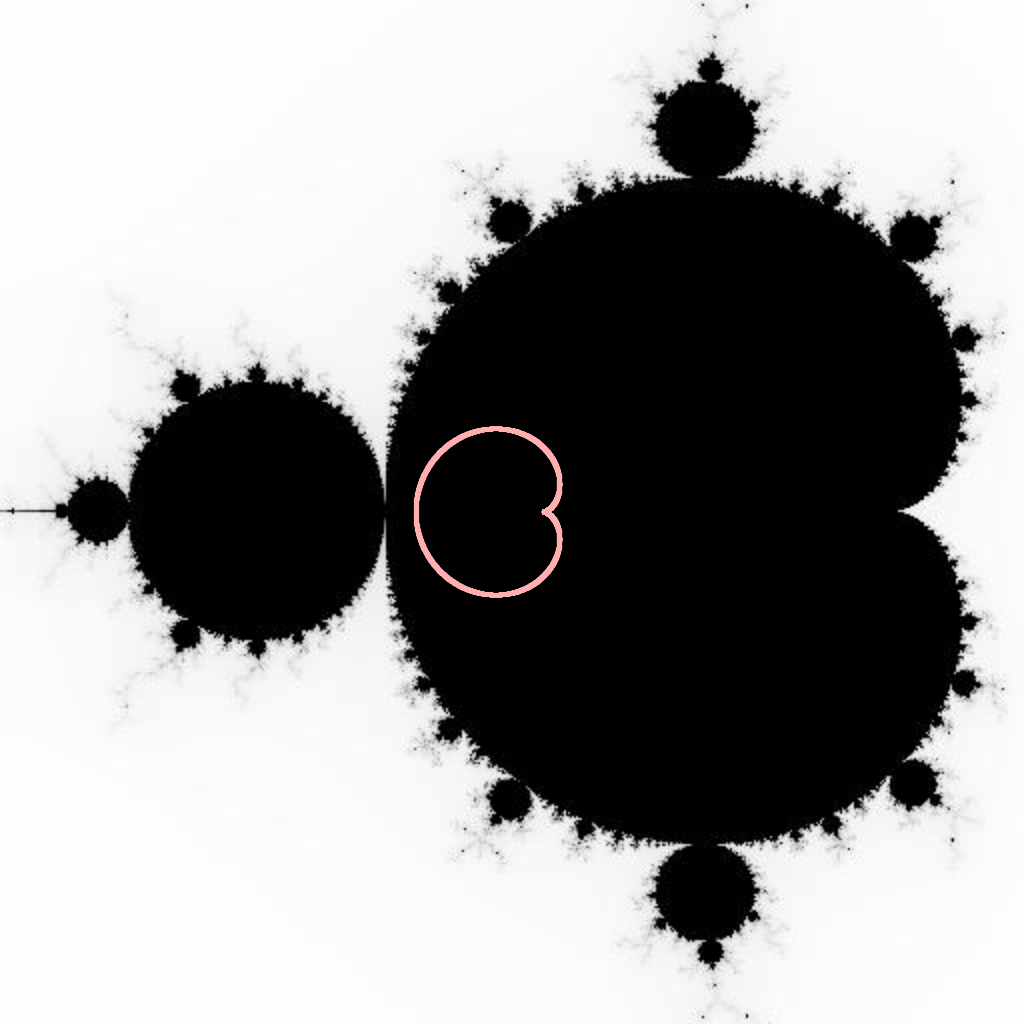
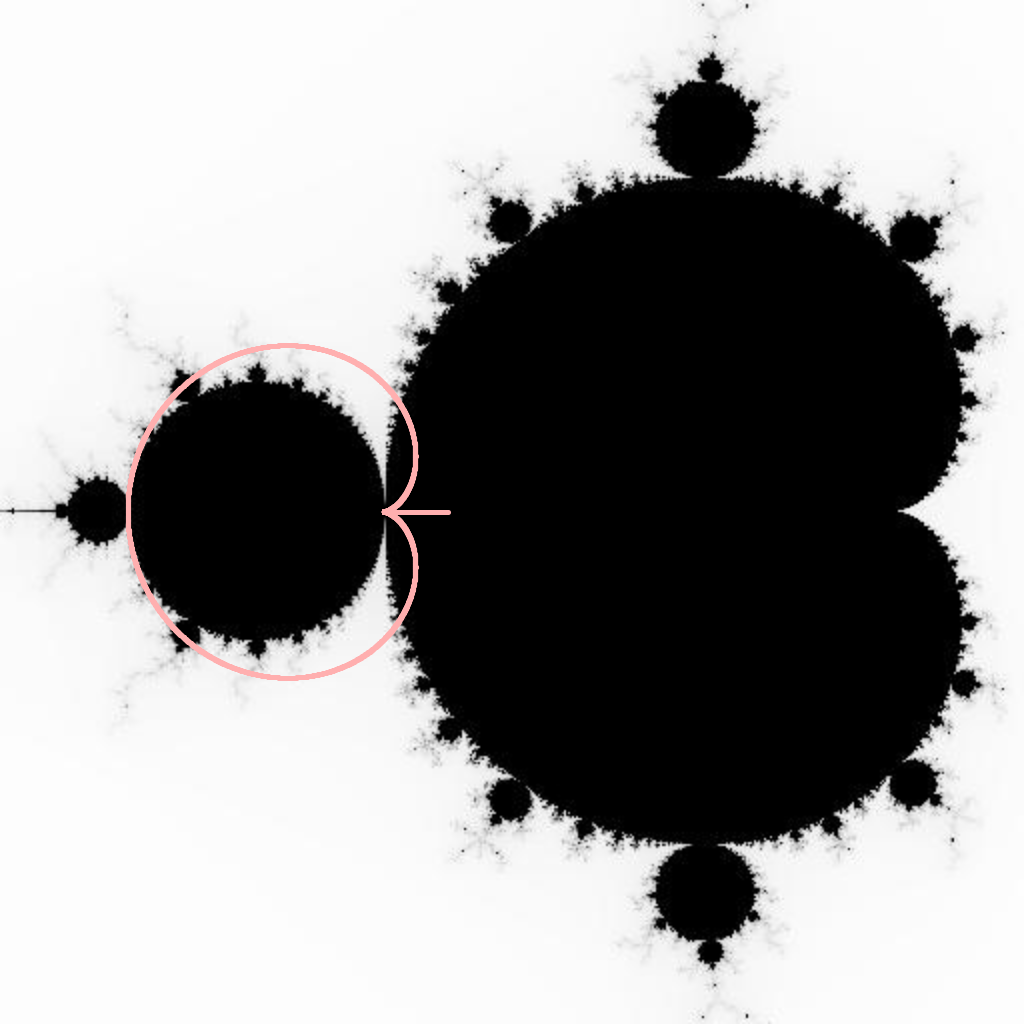
update hw

diff --git a/CS201-S4-SP-2026/HW14/E-5.2.99-UnaryAddTM/Tape.java b/CS201-S4-SP-2026/HW14/E-5.2.99-UnaryAddTM/Tape.java
@@ -44,52 +44,65 @@ public class Tape {
         current = right.pop();
     }
     public String toString() {
-        // Complete the code here, see README on course website for problem description and instructions.
-        Stack<Character> temp = new Stack<Character>();
-        
-        
+        // Build the result by collecting all tape contents
+        Stack<Character> allChars = new Stack<Character>();
+
+        // Left side in reverse order (pop from left, push to allChars)
+        Stack<Character> leftReversed = new Stack<Character>();
         while (!left.isEmpty()) {
-            temp.push(left.pop());
+            leftReversed.push(left.pop());
         }
-        temp.push(current);
+        while (!leftReversed.isEmpty()) {
+            allChars.push(leftReversed.pop());
+        }
+
+        // Current
+        allChars.push(current);
+
+        // Right side (pop from right, push to allChars)
+        Stack<Character> rightReversed = new Stack<Character>();
         while (!right.isEmpty()) {
-            temp.push(right.pop());
+            rightReversed.push(right.pop());
         }
-        
-        
-        java.util.List<Character> chars = new java.util.ArrayList<Character>();
-        while (!temp.isEmpty()) {
-            char c = temp.pop();
-            if (c != '#') {  // Skip '#' symbols
-                chars.add(c);
+        while (!rightReversed.isEmpty()) {
+            allChars.push(rightReversed.pop());
+        }
+
+        // Build input part (before =) and result part (after =)
+        // First pass: collect all non-# characters in order
+        java.util.List<Character> tapeList = new java.util.ArrayList<Character>();
+        while (!allChars.isEmpty()) {
+            char c = allChars.pop();
+            if (c != '#') {
+                tapeList.add(c);
             }
         }
-        
-        // Now build the result with spaces
-        StringBuilder result = new StringBuilder();
-        for (int i = 0; i < chars.size(); i++) {
-            result.append(chars.get(i));
-            if (i < chars.size() - 1) {
-                result.append(" ");
-            }
-        }
-        
-        
-        StringBuilder formattedResult = new StringBuilder();
+
+        // tapeList now has all non-# chars in reverse order (from pop)
+        // Reverse it to get correct order
+        java.util.Collections.reverse(tapeList);
+
+        // The input part is from original input (skip #)
+        // The result part is tapeList (which should be the current tape state)
+        StringBuilder inputPart = new StringBuilder();
         boolean first = true;
         for (int i = 0; i < originalInput.length(); i++) {
             char c = originalInput.charAt(i);
-            if (c != '#') {  // Skip '#' symbols
-                if (!first) {
-                    formattedResult.append(" ");
-                }
-                formattedResult.append(c);
+            if (c != '#') {
+                if (!first) inputPart.append(" ");
+                inputPart.append(c);
                 first = false;
             }
         }
-        formattedResult.append(" = ");
-        formattedResult.append(result.toString());
-        
-        return formattedResult.toString();
+
+        StringBuilder resultPart = new StringBuilder();
+        first = true;
+        for (char c : tapeList) {
+            if (!first) resultPart.append(" ");
+            resultPart.append(c);
+            first = false;
+        }
+
+        return inputPart.toString() + " = " + resultPart.toString();
     }
 }

diff --git a/CS201-S4-SP-2026/HW10/E-3.3.103-CardiodAndMandelbrot/HeartCurve.java b/CS201-S4-SP-2026/HW10/E-3.3.103-CardiodAndMandelbrot/HeartCurve.java
@@ -21,21 +21,22 @@ public class HeartCurve {
         StdDraw.setPenColor(StdDraw.PINK);
         StdDraw.setPenRadius(0.005);
         double a = 0.25;
+        double scale = 2.0;
 
         double N = 360;
 
-        double x0 = 0.25, y0 = 0;
+        double x0 = 0.25 * scale, y0 = 0;
 
         for (double t = 0.0; t <= N; t += 0.1) {
             double theta = Math.toRadians(t);
             double c = Math.cos(theta);
             double u = 2 * a * (1 - c);
 
-            double x1 = u * c;
-            double y1 = u * Math.sin(theta);
+            double x1 = u * c * scale;
+            double y1 = u * Math.sin(theta) * scale;
 
             Point p = turnLeft(x1, y1, Math.PI / 2);
-            p = moveRight(p, 0.25);
+            p = moveRight(p, 0.5 * scale);
 
             StdDraw.line(x0, y0, p.x, p.y);
 
